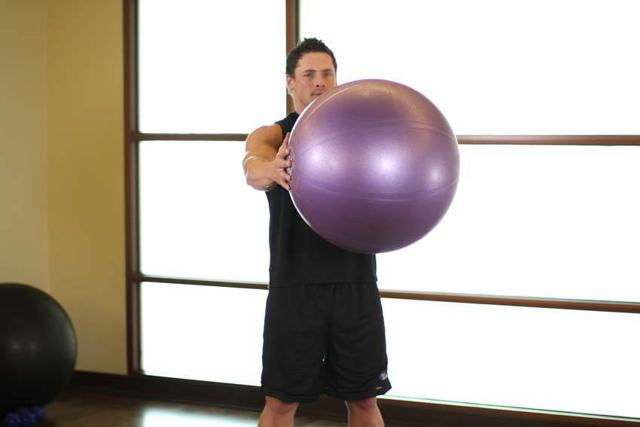
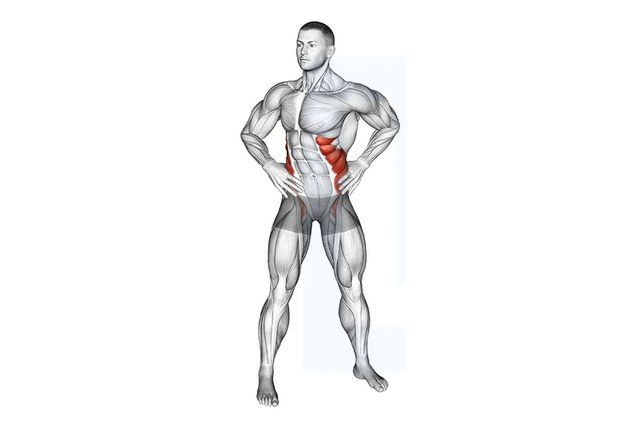
Torso Rotation: photos from Tom's image, hands-on-hips text
Claude-Session: https://claude.ai/code/session_01Vdzj1YGMCaVc3tcbYN3MBF

diff --git a/index.html b/index.html
@@ -1216,7 +1216,7 @@ body.wo-on{padding-bottom:calc(180px + env(safe-area-inset-bottom));}
       <li class="exr ex-off" data-grp="g0" data-key="w0-stair-climber"><button type="button" class="chk" aria-pressed="false" aria-label="Done"><svg width="16" height="16" viewBox="0 0 24 24" fill="none" stroke="currentColor" stroke-width="3" stroke-linecap="round" stroke-linejoin="round"><path d="M5 12.5l4.5 4.5L19 7.5"></path></svg></button><div class="exr-t"><div class="exr-n">Stair Climber</div><div class="exr-s">5 min, easy pace<span class="exr-warn">· Knees!</span></div></div><input class="note exr-in" type="text" inputmode="decimal" data-note="w0-stair-climber" placeholder="min" aria-label="Stair Climber — min"></li>
       <li class="exr ex-off" data-grp="g0" data-key="w0-jump-rope"><button type="button" class="chk" aria-pressed="false" aria-label="Done"><svg width="16" height="16" viewBox="0 0 24 24" fill="none" stroke="currentColor" stroke-width="3" stroke-linecap="round" stroke-linejoin="round"><path d="M5 12.5l4.5 4.5L19 7.5"></path></svg></button><div class="exr-t"><div class="exr-n">Jump Rope</div><div class="exr-s">2–3 min, light bounces<span class="exr-warn">· Knees!</span></div></div><input class="note exr-in" type="text" inputmode="decimal" data-note="w0-jump-rope" placeholder="min" aria-label="Jump Rope — min"></li>
       <li class="exr" data-grp="g0" data-key="w0-cat-cow"><button type="button" class="chk" aria-pressed="false" aria-label="Done"><svg width="16" height="16" viewBox="0 0 24 24" fill="none" stroke="currentColor" stroke-width="3" stroke-linecap="round" stroke-linejoin="round"><path d="M5 12.5l4.5 4.5L19 7.5"></path></svg></button><div class="exr-t"><div class="exr-n">Cat-Cow Stretch</div><div class="exr-s">8–10 slow reps</div></div><input class="note exr-in" type="text" inputmode="decimal" data-note="w0-cat-cow" placeholder="reps" aria-label="Cat-Cow Stretch — reps"></li>
-      <li class="exr" data-grp="g0" data-key="w0-torso-rotation"><button type="button" class="chk" aria-pressed="false" aria-label="Done"><svg width="16" height="16" viewBox="0 0 24 24" fill="none" stroke="currentColor" stroke-width="3" stroke-linecap="round" stroke-linejoin="round"><path d="M5 12.5l4.5 4.5L19 7.5"></path></svg></button><div class="exr-t"><div class="exr-n">Torso Rotation</div><div class="exr-s">10 per side · arms crossed over your chest</div></div><input class="note exr-in" type="text" inputmode="decimal" data-note="w0-torso-rotation" placeholder="reps" aria-label="Torso Rotation — reps"></li>
+      <li class="exr" data-grp="g0" data-key="w0-torso-rotation"><button type="button" class="chk" aria-pressed="false" aria-label="Done"><svg width="16" height="16" viewBox="0 0 24 24" fill="none" stroke="currentColor" stroke-width="3" stroke-linecap="round" stroke-linejoin="round"><path d="M5 12.5l4.5 4.5L19 7.5"></path></svg></button><div class="exr-t"><div class="exr-n">Torso Rotation</div><div class="exr-s">10 per side · hands on your hips</div></div><input class="note exr-in" type="text" inputmode="decimal" data-note="w0-torso-rotation" placeholder="reps" aria-label="Torso Rotation — reps"></li>
       <li class="exr ex-off" data-grp="g0" data-key="w0-worlds-greatest"><button type="button" class="chk" aria-pressed="false" aria-label="Done"><svg width="16" height="16" viewBox="0 0 24 24" fill="none" stroke="currentColor" stroke-width="3" stroke-linecap="round" stroke-linejoin="round"><path d="M5 12.5l4.5 4.5L19 7.5"></path></svg></button><div class="exr-t"><div class="exr-n">World’s Greatest Stretch</div><div class="exr-s">5 per side</div></div><input class="note exr-in" type="text" inputmode="decimal" data-note="w0-worlds-greatest" placeholder="reps" aria-label="World’s Greatest Stretch — reps"></li>
       <li class="exr ex-off" data-grp="g0" data-key="w0-inchworm"><button type="button" class="chk" aria-pressed="false" aria-label="Done"><svg width="16" height="16" viewBox="0 0 24 24" fill="none" stroke="currentColor" stroke-width="3" stroke-linecap="round" stroke-linejoin="round"><path d="M5 12.5l4.5 4.5L19 7.5"></path></svg></button><div class="exr-t"><div class="exr-n">Inchworm</div><div class="exr-s">5–6 reps</div></div><input class="note exr-in" type="text" inputmode="decimal" data-note="w0-inchworm" placeholder="reps" aria-label="Inchworm — reps"></li>
       <li class="exr ex-off" data-grp="g0" data-key="w0-hip-circles"><button type="button" class="chk" aria-pressed="false" aria-label="Done"><svg width="16" height="16" viewBox="0 0 24 24" fill="none" stroke="currentColor" stroke-width="3" stroke-linecap="round" stroke-linejoin="round"><path d="M5 12.5l4.5 4.5L19 7.5"></path></svg></button><div class="exr-t"><div class="exr-n">Hip Circles</div><div class="exr-s">10 per direction</div></div><input class="note exr-in" type="text" inputmode="decimal" data-note="w0-hip-circles" placeholder="reps" aria-label="Hip Circles — reps"></li>
@@ -3057,7 +3057,7 @@ body.wo-on{padding-bottom:calc(180px + env(safe-area-inset-bottom));}
     pullapart:{view:'front',cap:'Arms straight in front of you at shoulder height. Pull the band apart briskly until your hands are beside your body, shoulder blades together. Slowly back.',
       poses:[{lh:[12,8],rh:[-12,8],ed:0},{lh:[-58,4],rh:[58,4],ed:0}],
       seq:cyc(900,1500,'Apart','Slowly back'),links:[['wrL','wrR']]},
-    rotation:{view:'front',cap:'Feet hip-width apart and still, arms crossed over your chest (hands on the opposite shoulder). Rotate your torso calmly left and right, hips stay facing forward.',
+    rotation:{view:'front',cap:'Feet a bit wider than hip-width and still, hands on your hips. Rotate your upper body and head calmly left and right, hips stay facing forward.',
       poses:[{rot:-55,armRot:true,lh:[42,8],rh:[-42,8],eb:10,ed:24},{rot:55,armRot:true,lh:[42,8],rh:[-42,8],eb:10,ed:24}],
       seq:[[0,1,1600,'Rotate calmly'],[1,1,300,''],[1,0,1600,'Rotate calmly'],[0,0,300,'']]},
     armcircle:{cap:'Upright, arms straight. Make big, calm circles: 10× forward, 10× backward.',
@@ -3259,6 +3259,7 @@ body.wo-on{padding-bottom:calc(180px + env(safe-area-inset-bottom));}
   }
 
   var IMG={"squat": ["img/squat-0.jpg", "img/squat-1.jpg"], "goblet": ["img/goblet-0.jpg", "img/goblet-1.jpg"], "lunge": ["img/lunge-0.jpg", "img/lunge-1.jpg"], "bulgarian": ["img/bulgarian-0.jpg", "img/bulgarian-1.jpg"], "dbpress": ["img/dbpress-0.jpg", "img/dbpress-1.jpg"], "chestmachine": ["img/chestmachine-0.jpg", "img/chestmachine-1.jpg"], "pushup": ["img/pushup-0.jpg", "img/pushup-1.jpg"], "fly": ["img/fly-0.jpg", "img/fly-1.jpg"], "legcurl": ["img/legcurl-0.jpg", "img/legcurl-1.jpg"], "abduction": ["img/abduction-0.jpg", "img/abduction-1.jpg"], "rdl": ["img/rdl-0.jpg", "img/rdl-1.jpg"], "csrow": ["img/csrow-0.jpg", "img/csrow-1.jpg"], "cablerow": ["img/cablerow-0.jpg", "img/cablerow-1.jpg"], "onearmrow": ["img/onearmrow-0.jpg", "img/onearmrow-1.jpg"], "dbshoulder": ["img/dbshoulder-0.jpg", "img/dbshoulder-1.jpg"], "shouldermachine": ["img/shouldermachine-0.jpg", "img/shouldermachine-1.jpg"], "lateral": ["img/lateral-0.jpg", "img/lateral-1.jpg"], "pulldown": ["img/pulldown-0.jpg", "img/pulldown-1.jpg"], "facepull": ["img/facepull-0.jpg", "img/facepull-1.jpg"], "hang": ["img/hang-0.jpg", "img/hang-1.jpg"], "pullup": ["img/pullup-0.jpg", "img/pullup-1.jpg"], "plank": ["img/plank-0.jpg", "img/plank-1.jpg"], "crunch": ["img/crunch-0.jpg", "img/crunch-1.jpg"], "carry": ["img/carry-0.jpg", "img/carry-1.jpg"], "backext": ["img/backext-0.jpg", "img/backext-1.jpg"], "ohext": ["img/ohext-0.jpg", "img/ohext-1.jpg"], "pushdown": ["img/pushdown-0.jpg", "img/pushdown-1.jpg"], "cablecurl": ["img/cablecurl-0.jpg", "img/cablecurl-1.jpg"], "hammer": ["img/hammer-0.jpg", "img/hammer-1.jpg"], "curlmachine": ["img/curlmachine-0.jpg?v=2", "img/curlmachine-1.jpg?v=2"], "dbcurl": ["img/dbcurl-0.jpg", "img/dbcurl-1.jpg"], "pullapart": ["img/pullapart-0.jpg", "img/pullapart-1.jpg"], "armcircle": ["img/armcircle-0.jpg", "img/armcircle-1.jpg"]};
+  IMG.rotation=["img/rotation-0.jpg","img/rotation-1.jpg"]; /* Torso Rotation: afbeelding van Tom, in twee gesplitst */
   IMG.legpress=["img/legpress-0.jpg","img/legpress-1.jpg"]; IMG.legext=["img/legext-0.jpg","img/legext-1.jpg"]; IMG.stepup=["img/stepup-0.jpg","img/stepup-1.jpg"]; IMG.walklunge=["img/walklunge-0.jpg","img/walklunge-1.jpg"]; IMG.hacksquat=["img/hacksquat-0.jpg","img/hacksquat-1.jpg"]; IMG.bridge=["img/bridge-0.jpg","img/bridge-1.jpg"]; IMG.calfraise=["img/calfraise-0.jpg","img/calfraise-1.jpg"]; IMG.cablelateral=["img/cablelateral-0.jpg","img/cablelateral-1.jpg"];
   IMG.dbfly=["img/dbfly-0.jpg","img/dbfly-1.jpg"]; IMG.crossover=["img/crossover-0.jpg","img/crossover-1.jpg"]; IMG.inclinemachine=["img/inclinemachine-0.jpg","img/inclinemachine-1.jpg"]; IMG.lowfly=["img/lowfly-0.jpg","img/lowfly-1.jpg"]; IMG.hipthrust=["img/hipthrust-0.jpg","img/hipthrust-1.jpg"]; IMG.seatedlegcurl=["img/seatedlegcurl-0.jpg","img/seatedlegcurl-1.jpg"]; IMG.pullthrough=["img/pullthrough-0.jpg","img/pullthrough-1.jpg"]; IMG.kickback=["img/kickback-0.jpg","img/kickback-1.jpg"]; IMG.seatedcalf=["img/seatedcalf-0.jpg","img/seatedcalf-1.jpg"]; IMG.rowmachine=["img/rowmachine-0.jpg","img/rowmachine-1.jpg"]; IMG.onearmcablerow=["img/onearmcablerow-0.jpg","img/onearmcablerow-1.jpg"]; IMG.highrow=["img/highrow-0.jpg","img/highrow-1.jpg"]; IMG.tbarrow=["img/tbarrow-0.jpg","img/tbarrow-1.jpg"]; IMG.arnold=["img/arnold-0.jpg","img/arnold-1.jpg"]; IMG.reversefly=["img/reversefly-0.jpg","img/reversefly-1.jpg"]; IMG.reardelt=["img/reardelt-0.jpg","img/reardelt-1.jpg"]; IMG.frontraise=["img/frontraise-0.jpg","img/frontraise-1.jpg"]; IMG.shrug=["img/shrug-0.jpg","img/shrug-1.jpg"]; IMG.closepulldown=["img/closepulldown-0.jpg","img/closepulldown-1.jpg"]; IMG.underpulldown=["img/underpulldown-0.jpg","img/underpulldown-1.jpg"]; IMG.straightarm=["img/straightarm-0.jpg","img/straightarm-1.jpg"]; IMG.onearmpulldown=["img/onearmpulldown-0.jpg","img/onearmpulldown-1.jpg"]; IMG.cablereardelt=["img/cablereardelt-0.jpg","img/cablereardelt-1.jpg"]; IMG.deadbug=["img/deadbug-0.jpg","img/deadbug-1.jpg"]; IMG.pallof=["img/pallof-0.jpg","img/pallof-1.jpg"]; IMG.cablecrunch=["img/cablecrunch-0.jpg","img/cablecrunch-1.jpg"]; IMG.dbhammer=["img/dbhammer-0.jpg","img/dbhammer-1.jpg"]; IMG.inclinecurl=["img/inclinecurl-0.jpg","img/inclinecurl-1.jpg"]; IMG.kickbacktri=["img/kickbacktri-0.jpg","img/kickbacktri-1.jpg"]; IMG.dbohext=["img/dbohext-0.jpg","img/dbohext-1.jpg"]; IMG.adduction=["img/adduction-0.jpg","img/adduction-1.jpg"]; IMG.cableadd=["img/cableadd-0.jpg","img/cableadd-1.jpg"]; IMG.bandadd=["img/bandadd-0.jpg","img/bandadd-1.jpg"]; IMG.legpresscalf=["img/legpresscalf-0.jpg","img/legpresscalf-1.jpg"]; IMG.smithbench=["img/smithbench-0.jpg","img/smithbench-1.jpg"]; IMG.dbbench=["img/dbbench-0.jpg","img/dbbench-1.jpg"]; IMG.balllegcurl=["img/balllegcurl-0.jpg","img/balllegcurl-1.jpg"]; IMG.cableextrot=["img/cableextrot-0.jpg","img/cableextrot-1.jpg"]; IMG.bandextrot=["img/bandextrot-0.jpg","img/bandextrot-1.jpg"]; IMG.revcrunch=["img/revcrunch-0.jpg","img/revcrunch-1.jpg"]; IMG.sidebend=["img/sidebend-0.jpg","img/sidebend-1.jpg"]; IMG.ezcurl=["img/ezcurl-0.jpg","img/ezcurl-1.jpg"]; IMG.barpushdown=["img/barpushdown-0.jpg","img/barpushdown-1.jpg"]; IMG.spidercurl=["img/spidercurl-0.jpg","img/spidercurl-1.jpg"]; IMG.sideplank=["img/sideplank-0.jpg","img/sideplank-1.jpg"]; IMG.plankcombo=["img/plank-1.jpg","img/sideplank-1.jpg"];
   /* animaties (exercises-dataset, © Gym visual), naast de foto's: img/anim/<sleutel>.gif */

diff --git a/CLAUDE.md b/CLAUDE.md
@@ -284,7 +284,8 @@ Kleur is relatief t.o.v. de best getrainde spier in die periode, zodat je de bal
   `VID.legcurl` = seatedlegcurl; ook Band Pull-Aparts `pullapart` en Dead Hang `hang`). Encoderen: `ffmpeg -nostdin` (anders eet ffmpeg de stdin van een lus op), `-an`, scale 640, crf 26.
   `VSQ` (vierkante video op wit) bestaat nog maar is leeg. Bird Dog: video; de getekende `player`-animatie blijft als terugval.
   Padel staat er zonder beeld. Torso Rotation (`w0-torso-rotation`, g0, reps) is op vraag van Tom terug, standaard aan; wie al een
-  opwarmingskeuze had krijgt ze erbij via `migrate()` (vlag `tr` in cfg/groups); nog zonder beeld (geen staande variant in de dataset).
+  opwarmingskeuze had krijgt ze erbij via `migrate()` (vlag `tr` in cfg/groups); foto's `img/rotation-0/1.jpg` = afbeelding van Tom (handen op de heupen), in twee
+  gesplitst en op wit 3:2 gezet.
   Nieuwe oefening: foto's (Free Exercise DB) + zo mogelijk een animatie toevoegen (sleutel in de `ANIM`-lijst + bestand in img/anim).
 - Het keuzeblad toont ook het aantal trainingen ('· N×', zoals in de workout). De i-knop is overal dezelfde tint (de klasse
   `.nop` wordt nog gezet door `markProg` maar heeft geen stijl meer).
